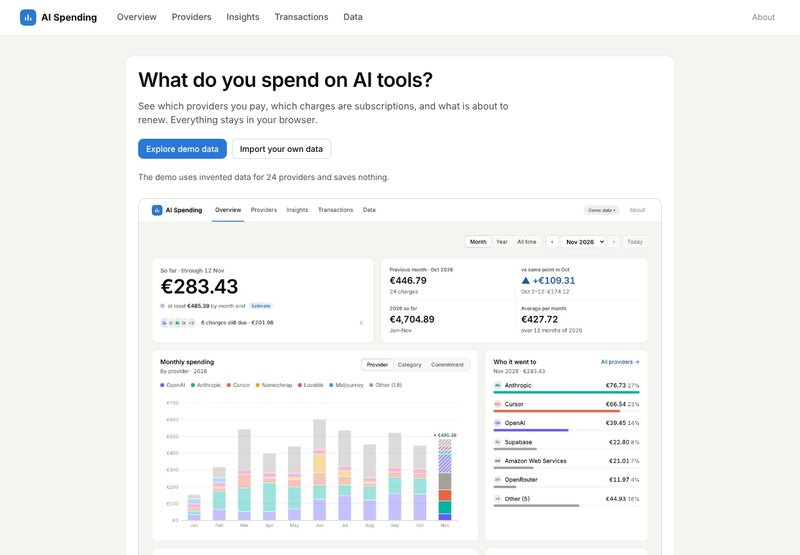
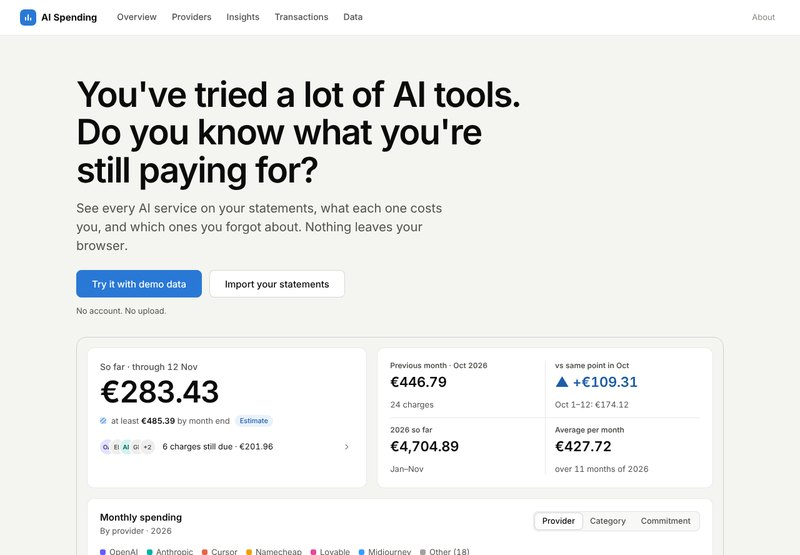
README, changelog and Welcome screenshot for the redesign
Claude-Session: https://claude.ai/code/session_01Qfp4rLyXRfcCbxc21jCuL9

diff --git a/README.md b/README.md
@@ -20,11 +20,13 @@ npm install
 npm run dev
 ```
 
-Open http://localhost:5173. With no data in the browser the app opens on the **Welcome** page: **Explore demo data** or **Import your own data**. Once data exists the app opens on Overview, and **About** in the top bar brings the Welcome page back at any time. Old links such as `/app`, `/app.html`, `/#/subscriptions` and `/#/trends` still work: they forward to `/` and open Overview and Insights. Your ways in:
+Open http://localhost:5173. With no data in the browser the app opens on the **Welcome** page: **Try it with demo data** or **Import your statements**. Once data exists the app opens on Overview, and **About** in the top bar brings the Welcome page back at any time. Old links such as `/app`, `/app.html`, `/#/subscriptions` and `/#/trends` still work: they forward to `/` and open Overview and Insights. Your ways in:
 
 - **Explore demo data** generates invented data in memory (see [Demo mode](#demo-mode)). Nothing is saved.
 - **Bank or card statements** (**Import your own data** opens the Data page): drop the exports you already download from your bank or card; the app picks out the AI charges (see [Statement extractor](#statement-extractor)).
 - **Ledger CSV**: import a file that is already in the ledger format. **Download example CSV** saves one to look at.
+
+The Welcome page is written for people who try many AI tools and lose track of what they pay for. Its hero preview and its three example insights (the monthly total and where it is heading, a price change, overlapping services) are the app's own components rendered from the demo data in a read-only, demo-only ledger (`LedgerProvider demoOnly`), so they never go stale and never touch what is stored in your browser. The words are in `src/content/welcome.ts`.
 
 On later visits your stored data loads automatically. To start over, use **Data → Clear local data**.
 
@@ -274,7 +276,7 @@ All screenshots show the synthetic demo data.
 
 | Address | What | Source |
 |---|---|---|
-| `/` | The app. With no data it opens on the Welcome page (what it does, demo or import, how it works, privacy, questions); **About** opens it any time. `/?demo=1` starts the demo. The search and social tags are in `index.html`, and a browser without scripts sees the same headline and privacy sentence. | `index.html`, `src/pages/Welcome.tsx`, `src/content/welcome.ts` |
+| `/` | The app. With no data it opens on the Welcome page (a landing page in full-width sections: a hero with a live preview of the Overview, "Sound familiar?", three example insights, how it works, a privacy band, questions and a closing call to action); **About** opens it any time. `/?demo=1` starts the demo. The search and social tags are in `index.html`, and a browser without scripts sees the same headline and privacy sentence. | `index.html`, `src/pages/Welcome.tsx`, `src/content/welcome.ts` |
 | `/app` (`app.html`) | The old address of the tracker. Forwards to `/`, keeping the query and the `#/…` part. | `app.html`, `src/legacyApp.ts` |
 | `/privacy` (`privacy.html`) | The privacy statement (published 2026-11-10; set `PRIVACY_IS_DRAFT` back to true to show a draft notice and `noindex` again). Static HTML. | `privacy.html`, `src/content/privacy.ts` |
 

diff --git a/CHANGELOG.md b/CHANGELOG.md
@@ -5,6 +5,7 @@ All notable changes to this project are listed here. The format follows [Keep a 
 ## [Unreleased]
 
 ### Changed
+- Welcome page redesign, to sell: a landing-page composition of full-width sections (no boxes around them, content up to about 1100px). Hero ("You've tried a lot of AI tools. Do you know what you're still paying for?", demo and import buttons, "No account. No upload.") with a live preview of the Overview's hero row and chart; "Sound familiar?"; three example insights (monthly total and where it is heading, a price change, overlapping services and what ending one saves) built from the demo data with the app's own avatar, amount and pill; "How it works" as a row; a full-width privacy band; the questions (unchanged); and a closing call to action. The preview and the examples render live from a demo-only ledger (`LedgerProvider demoOnly`, in memory, never reads or writes storage), so no screenshot is used and none can go stale. A taller (44px) button size exists for the page's calls to action. Text actions now wrap like text (a long link no longer widens the page on a phone).
 - Overview, hero card: the hero is a card of the same height as the stat tile card, content at its top left (label, amount, "at least €X by month end" with the Estimate pill). For the month in progress, one clickable row under that line shows an overlapping stack of the providers still due, "N charges still due · €X" and a chevron; it opens a popover (a bottom sheet on a phone) with every charge still due, the usage so far and "How is this estimated?", so the card never changes height. Nothing shows when nothing is still due. The stat tiles show a label, a value and a meta line, with no sparklines (the comparison tile keeps its arrow); the sparkline code is removed.
 - Overview polish: the four stat tiles have equal heights, a vertical and a horizontal divider, and a meta line each (Previous month and Previous year say how many charges they hold); "Other" in Who it went to has a grey +N avatar. The five main pages have no page title (the top bar says where you are; a hidden heading keeps the outline) and the Overview hero label is "So far · through 12 Nov" / "So far this year · through 12 Nov" / "Total"; the Overview header no longer has a "Data through" line (provider pages and the Data page keep theirs).
 - Overview layout and visual refresh. Row 1 is a hero on the page background (the period total at 48px; for the month in progress "at least €X by month end") beside one card of four stat tiles, which follow Month, Year and All time. Row 2 is the monthly chart and **Who it went to** (top six providers plus Other). Row 3 is the period's charges and the **Budget** card. The "Month in context" card is gone.
